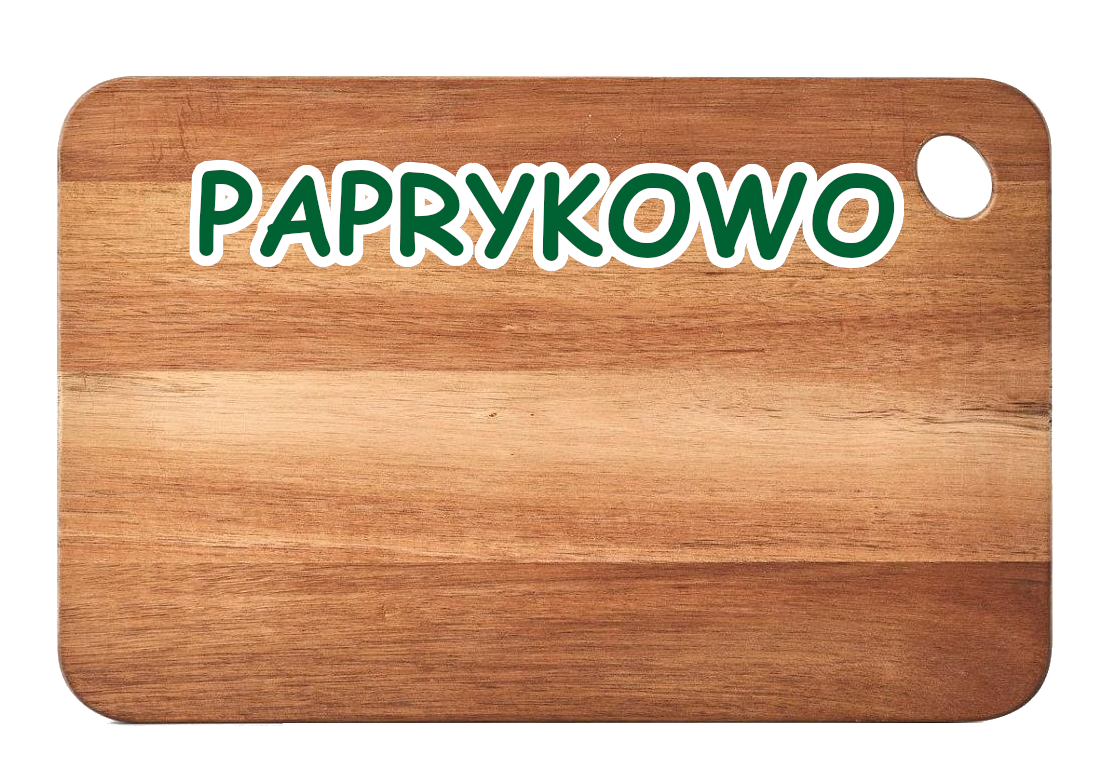
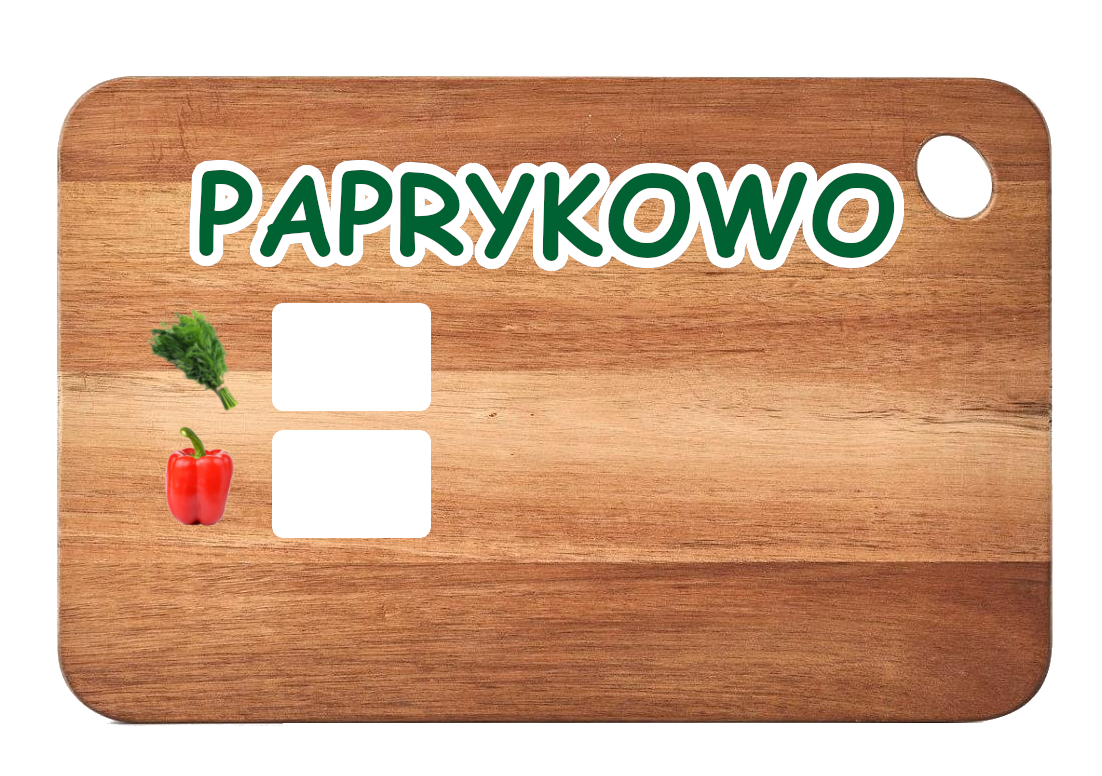
new boards and views

Changed region(s): [[0.2468, 0.3711, 0.4011, 0.7113], [0.1234, 0.5567, 0.216, 0.6804], [0.1234, 0.4021, 0.216, 0.5258]]

diff --git a/gamelib/menuviews.py b/gamelib/menuviews.py
@@ -18,6 +18,7 @@ class MainMenuView(widgets.OptionView):
         self.window.show_view(level_list)
 
     def setup(self):
+        self.background = image_background[1]
         self.board = image_gui['board']
         y_slot = self.height // 5 
         x_slot = self.width // 6
@@ -93,13 +94,14 @@ class MainMenuView(widgets.OptionView):
     
     def on_update(self, delta_time: float):
         super().on_update(delta_time)
-        self.button_scrsize.textures_update(self)
+        self.button_scrsize.textures_update()
 
     
 
 class LevelChoiceView(widgets.OptionView):
    
     def setup(self):
+        self.background = image_background[1]
         self.board = image_gui['board']
         y_slot = self.height // 6 
         x_slot = self.width // 6
@@ -113,7 +115,7 @@ class LevelChoiceView(widgets.OptionView):
             normal_texture=image_gui['std_0'],
             hover_texture=image_gui['std_1'],
             press_texture=image_gui['std_2'],
-            text_label=image_gui['t_options'],
+            text_label=image_gui['t_level1'],
             callback=lambda: self.show_new_view(gameview.GameLevel)
         )
         self.button_list.append(self.button_l1)
@@ -125,7 +127,7 @@ class LevelChoiceView(widgets.OptionView):
             normal_texture=image_gui['std_0'],
             hover_texture=image_gui['std_1'],
             press_texture=image_gui['std_2'],
-            text_label=image_gui['t_options']
+            text_label=image_gui['t_level2']
         )
         self.button_list.append(self.button_l2)
 
@@ -136,7 +138,7 @@ class LevelChoiceView(widgets.OptionView):
             normal_texture=image_gui['std_0'],
             hover_texture=image_gui['std_1'],
             press_texture=image_gui['std_2'],
-            text_label=image_gui['t_options']
+            text_label=image_gui['t_level3']
         )
         self.button_list.append(self.button_l3)
 
@@ -147,21 +149,11 @@ class LevelChoiceView(widgets.OptionView):
             normal_texture=image_gui['std_0'],
             hover_texture=image_gui['std_1'],
             press_texture=image_gui['std_2'],
-            text_label=image_gui['t_options']
+            text_label=image_gui['t_level4']
         )
         self.button_list.append(self.button_l4)
 
-
-        self.button_return = widgets.StandardButton(
-            self, 24,
-            center_x=x_slot * 2,
-            center_y=move_up + self.height // 40,
-            normal_texture=image_gui['return_0'],
-            hover_texture=image_gui['return_1'],
-            press_texture=image_gui['return_2'],
-            text_label=image_gui['t_return'],
-            callback=lambda: self.show_new_view(MainMenuView)
-        )
+        self.button_return = widgets.ReturnButton(self, MainMenuView)
         self.button_list.append(self.button_return)
 
         self.button_scrsize = widgets.ResizeButton(self)
@@ -172,7 +164,7 @@ class LevelChoiceView(widgets.OptionView):
     
     def on_update(self, delta_time: float):
         super().on_update(delta_time)
-        self.button_scrsize.textures_update(self)
+        self.button_scrsize.textures_update()
 
         
     

diff --git a/gamelib/widgets.py b/gamelib/widgets.py
@@ -110,6 +110,9 @@ class OptionView(arcade.View):
     def on_draw(self):
 
         arcade.start_render()
+        if self.background != None:
+            arcade.draw_texture_rectangle(self.width / 2 + self.view_left, self.height/2 + self.view_bottom,
+            self.width, self.height, texture=self.background)
         if self.draw_parent:
             self.parent_view.on_draw()
         arcade.draw_texture_rectangle(self.width / 2 + self.view_left, self.height/2 + self.view_bottom,
@@ -122,13 +125,13 @@ class OptionView(arcade.View):
                 arcade.draw_scaled_texture_rectangle(button.center_x, button.center_y, button.text_label,
                 button.scale)
 
-        arcade.draw_circle_filled(self.mouse.center_x, self.mouse.center_y, 4, (255, 0, 0, 255))
+        
 
 
 class StandardButton(arcade.Sprite):
     def __init__(self, parent_view, percent_width, center_x, center_y,\
          normal_texture, hover_texture, press_texture,
-                 text_label=None, callback=lambda: print('')):
+                 text_label=None, callback=lambda: None):
         super().__init__()
         self.texture_0 = normal_texture
         self.texture_1 = hover_texture
@@ -175,11 +178,10 @@ class ResizeButton(StandardButton):
             self.callback = other_callback
         self.parent_view = parent_view
 
-    def textures_update(self, t_type):
+    def textures_update(self):
         self.texture_0 = image_gui[f'full_{self.parent_view.window.fullscreen}_0']
         self.texture_1 = image_gui[f'full_{self.parent_view.window.fullscreen}_1']
         self.texture_2 = image_gui[f'full_{self.parent_view.window.fullscreen}_2']
-        
 
 class QuitButton(StandardButton):
     def __init__(self, parent_view):
@@ -190,6 +192,18 @@ class QuitButton(StandardButton):
          hover_texture=image_gui['quit_1'],
          press_texture=image_gui['quit_2'],
          callback=lambda: parent_view.window.close())
+        self.parent_view = parent_view
+
+class ReturnButton(StandardButton):
+     def __init__(self, parent_view, return_view_class):
+        super().__init__(parent_view, 24,
+         parent_view.width // 6 * 2,
+         parent_view.height * 0.15 + parent_view.height // 40,
+         normal_texture=image_gui['return_0'],
+         hover_texture=image_gui['return_1'],
+         press_texture=image_gui['return_2'],
+         text_label=image_gui['t_return'],
+         callback=lambda: parent_view.show_new_view(return_view_class))
         self.parent_view = parent_view
 
 

diff --git a/gamelib/ongameviews.py b/gamelib/ongameviews.py
@@ -121,9 +121,7 @@ class PauseView(widgets.OptionView):
 
     def on_update(self, delta_time: float):
         super().on_update(delta_time)
-        self.button_scrsize.texture_0 = image_gui[f'full_{self.window.fullscreen}_0']
-        self.button_scrsize.texture_1 = image_gui[f'full_{self.window.fullscreen}_1']
-        self.button_scrsize.texture_2 = image_gui[f'full_{self.window.fullscreen}_2']
+        self.button_scrsize.textures_update()
 
 
 
@@ -172,9 +170,7 @@ class GameOverView(widgets.OptionView):
 
     def on_update(self, delta_time: float):
         super().on_update(delta_time)
-        self.button_scrsize.texture_0 = image_gui[f'full_{self.window.fullscreen}_0']
-        self.button_scrsize.texture_1 = image_gui[f'full_{self.window.fullscreen}_1']
-        self.button_scrsize.texture_2 = image_gui[f'full_{self.window.fullscreen}_2']
+        self.button_scrsize.textures_update()
 
 class WinningView(widgets.OptionView):
     def __init__(self, game_view):
@@ -191,7 +187,7 @@ class WinningView(widgets.OptionView):
 
         self.button_back = widgets.StandardButton(
             self, 30,
-            center_x=x_slot * 2,
+            center_x=x_slot * 4,
             center_y= y_slot * 3 - self.height // 40,
             normal_texture=image_gui[f'std_0'],
             hover_texture=image_gui[f'std_1'],

diff --git a/gamelib/gameview.py b/gamelib/gameview.py
@@ -369,13 +369,12 @@ class GameLevel(arcade.View):
                 if pot.active:
                     if not pot.picked:
                         for _ in range(0, DILL_DROP):
-                            new_dill = sprites.Dill(pot)
+                            new_dill = sprites.Dill(self, pot)
                             self.dill_list.append(new_dill)
                             self.physics_engine_pymunk.add_sprite(
                                 new_dill, friction=1, collision_type="item")
                             self.physics_engine_pymunk.apply_force(new_dill, (random.randint(
-                                -POPPING_X_FORCE_RANGE_LIMIT, POPPING_X_FORCE_RANGE_LIMIT),
-                                 POPPING_Y_FORCE))
+                                -POPPING_X_FORCE_RANGE_LIMIT, POPPING_X_FORCE_RANGE_LIMIT), POPPING_Y_FORCE))
                     pot.pick_action()
 
             # moving block bounce

diff --git a/gamelib/constants.py b/gamelib/constants.py
@@ -28,7 +28,7 @@ PEPPER_SPEED = 2
 PEPPER_JUMP_SPEED = 7
 PEPPER_AGONY_TIME = 30
 
-MOVING_BLOCK_SPEED = 2
+MOVING_BLOCK_SPEED = 1
 
 KNIVES_DISLOCATION = 10
 
@@ -125,6 +125,10 @@ image_gui = {
     't_restart': arcade.load_texture(f"{IMG_DIR}\\widget\\label_restart.png"),
     't_menu': arcade.load_texture(f"{IMG_DIR}\\widget\\label_menu.png"),
     't_resume': arcade.load_texture(f"{IMG_DIR}\\widget\\label_resume.png"),
+    't_level1': arcade.load_texture(f"{IMG_DIR}\\widget\\label_level1.png"),
+    't_level2': arcade.load_texture(f"{IMG_DIR}\\widget\\label_level2.png"),
+    't_level3': arcade.load_texture(f"{IMG_DIR}\\widget\\label_level3.png"),
+    't_level4': arcade.load_texture(f"{IMG_DIR}\\widget\\label_level4.png"),
     }
 
 image_background = {
